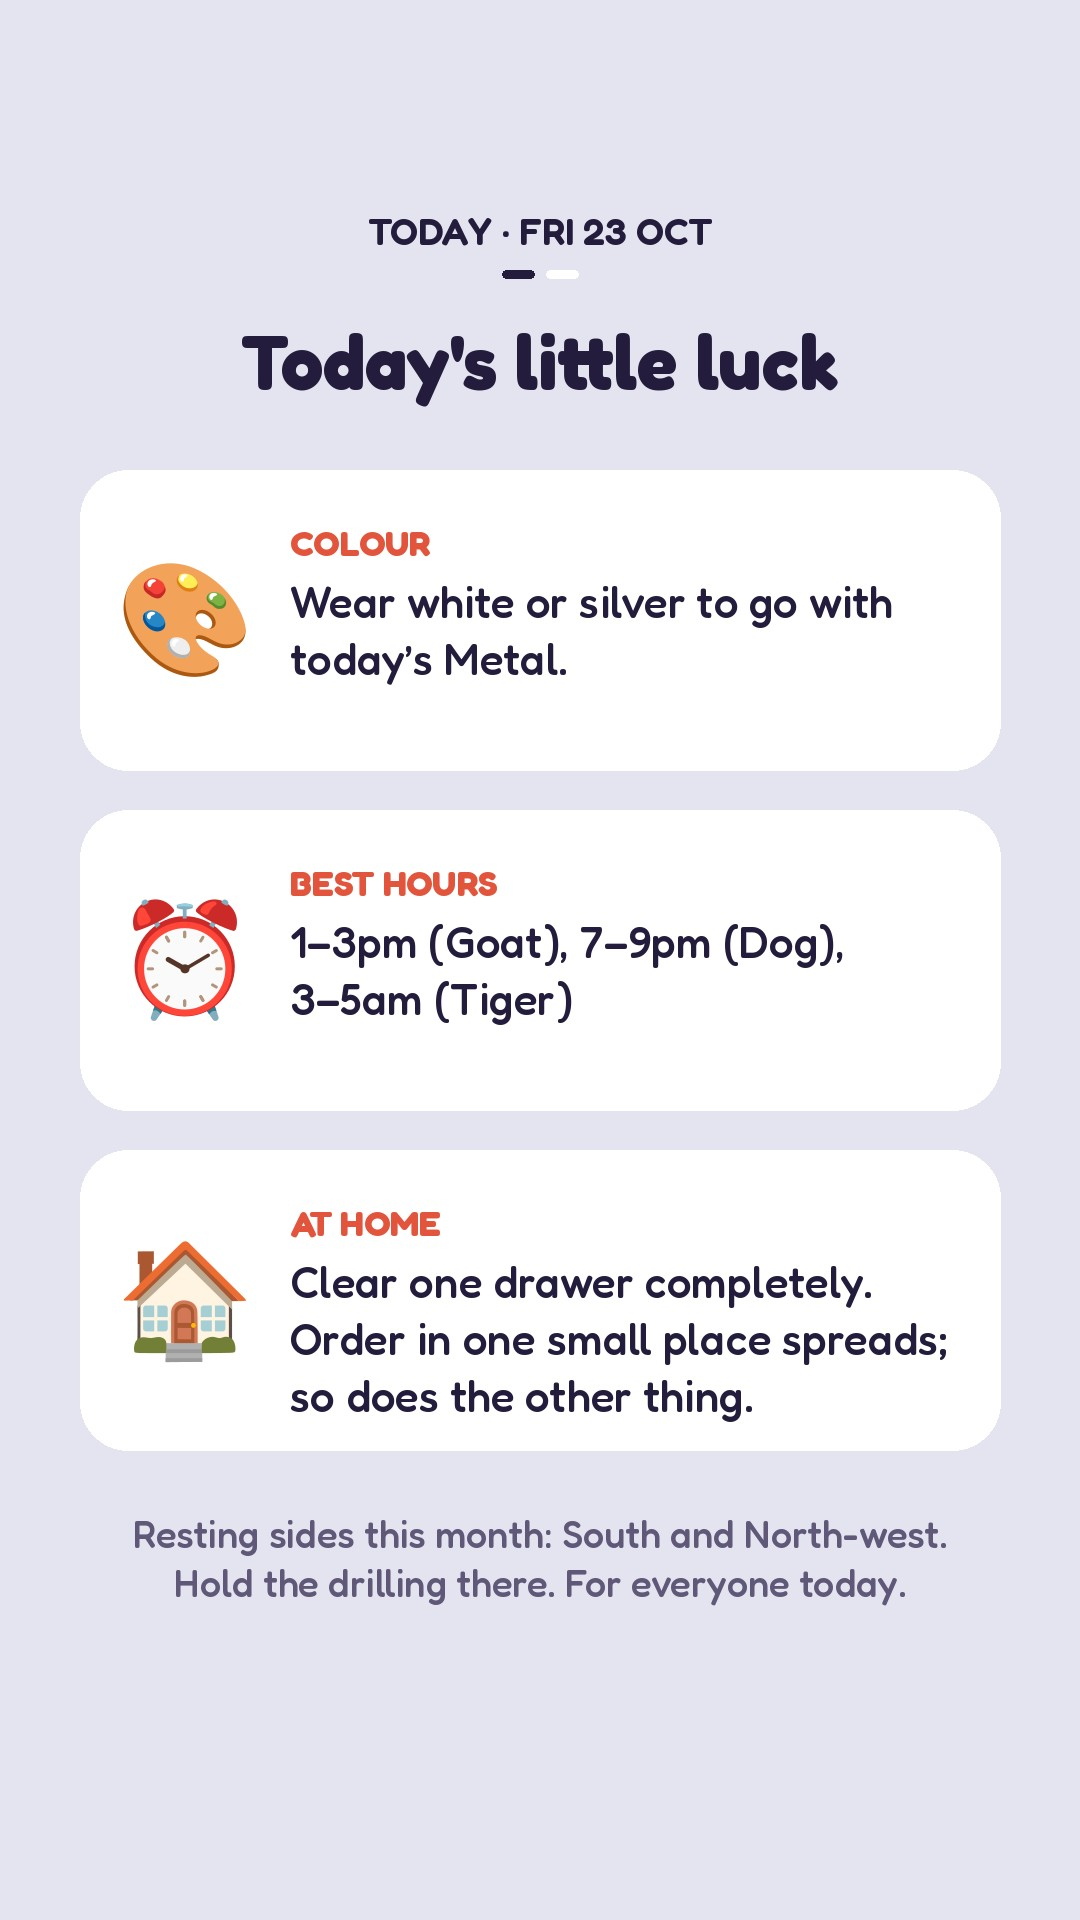
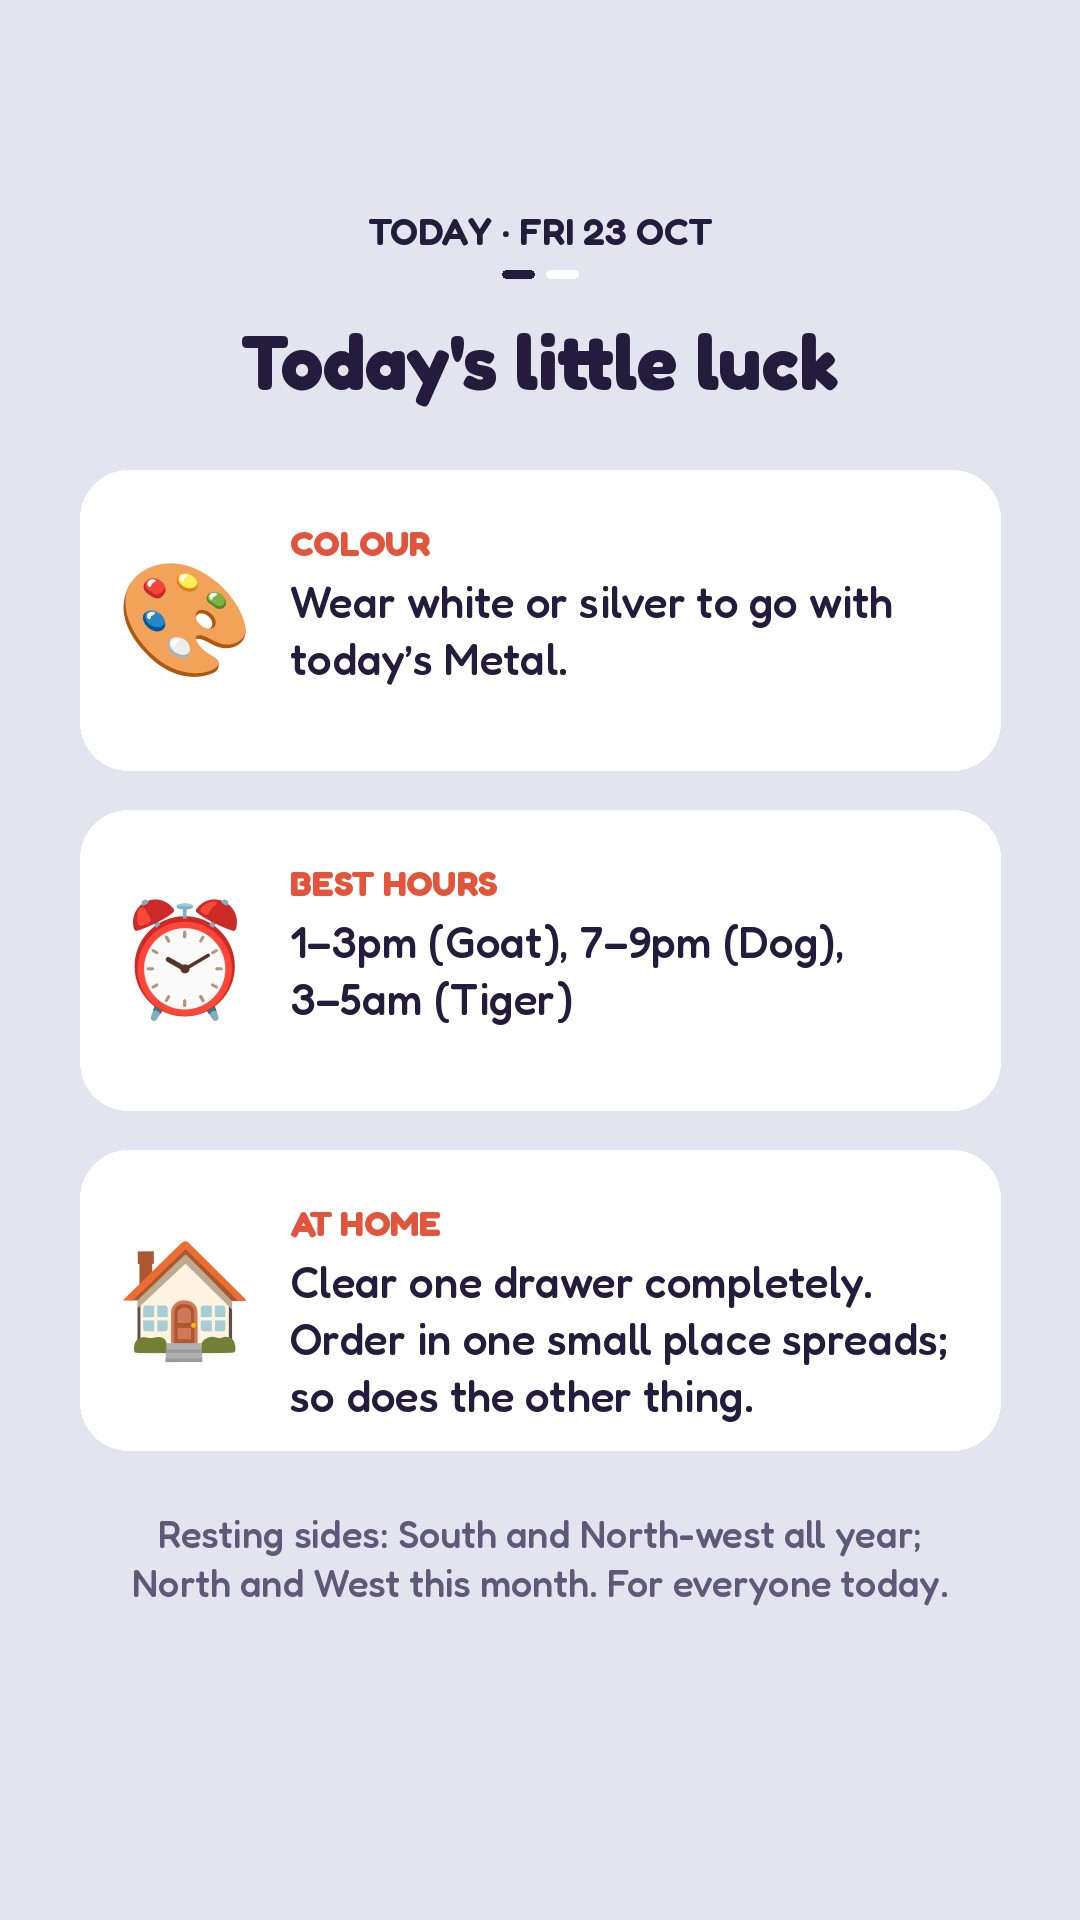
Resting-sides line names this month's sides too; the centre is never a side
Claude-Session: https://claude.ai/code/session_01LYgd3iDkmnakjji29VWe9t

Changed region(s): [[0.1222, 0.7812, 0.8861, 0.8438]]

diff --git a/tools/home.py b/tools/home.py
@@ -91,12 +91,26 @@ def resting(date):
     order = []
     for p in double + a5 + a2 + m5 + m2 + [A['taiSui']]:
         if p not in order: order.append(p)
+    order = [p for p in order if p != 5]  # the centre is not a side of the home
     names = [SECTOR[p] for p in order]
-    # the two that matter most: double affliction first, then annual 5, annual 2, monthly 5 / 2
+    # Name the year's sides (annual 5, annual 2, Tai Sui) and this month's (monthly 5 / 2) separately,
+    # so the line changes with the month instead of repeating the annual pair all year.
+    year_side = [p for p in a5 + a2 + [A['taiSui']] if p != 5]
+    month_side = [p for p in m5 + m2 if p != 5 and p not in year_side]
+    yn = _join([SECTOR[p] for p in dict.fromkeys(year_side)])
+    mn = _join([SECTOR[p] for p in dict.fromkeys(month_side)])
+    if double:
+        head = _join([SECTOR[p] for p in dict.fromkeys(double)])
+        line = f'{head}: resting twice over this month. Nothing moves there.'
+    elif mn:
+        line = f'Resting sides: {yn} all year; {mn} this month. No drilling there.'
+        if len(line) > 80: line = f'Resting sides: {yn} all year; {mn} this month.'
+        if len(line) > 80: line = f'Resting: {", ".join(SECTOR[p] for p in dict.fromkeys(year_side))} all year; {", ".join(SECTOR[p] for p in dict.fromkeys(month_side))} this month.'
+    else:
+        line = f'Resting sides this month: {yn}. Hold the drilling and big moves there.'
     head = _join(names)
     side = 'side' if len(names) == 1 else 'sides'
-    line = f'Resting {side} this month: {head}. Hold the drilling and big moves there.'
-    if len(line) > 80: line = f'Resting {side} this month: {head}. Hold the drilling there.'
+    if len(line) > 80: line = f'Resting sides: {yn} all year; {mn} this month.' if mn and not double else f'Resting {side}: {head}. Hold the drilling there.'
     short = f'Resting {side}: {head}. Hold the drilling there.'
     return {'date': date.isoformat(), 'year': y, 'month_index': mi, 'month_animal': M['animal'],
             'annual': {SECTOR[p]: s for p, s in A['stars'].items()}, 'monthly': {SECTOR[p]: s for p, s in M['stars'].items()},

diff --git a/tools/test_home.py b/tools/test_home.py
@@ -55,7 +55,7 @@ assert fs_month(datetime.date(2027, 1, 6)) == (2026, 11)
 R = resting('2026-10-22')   # Dog month: annual 5 S, annual 2 NW, monthly 5 N, monthly 2 W, Tai Sui S
 assert R['avoid'] == ['South', 'North-west', 'North', 'West'] and R['double'] == []
 assert (R['taiSui'], R['suiPo'], R['sanSha']) == ('South', 'North', 'North')
-assert R['line'].startswith('Resting sides this month: South and North-west.') and len(R['line']) <= 80
+assert R['line'].startswith('Resting sides: South and North-west all year; North and West this month') and len(R['line']) <= 80
 R = resting('2026-09-20')   # Rooster month: monthly 5 on annual 5 (S), monthly 2 on annual 2 (NW)
 assert R['double'] == ['South', 'North-west'] and R['avoid'][:2] == ['South', 'North-west']
 R = resting('2026-12-20')   # Rat month: monthly 2 in S on the annual 5
